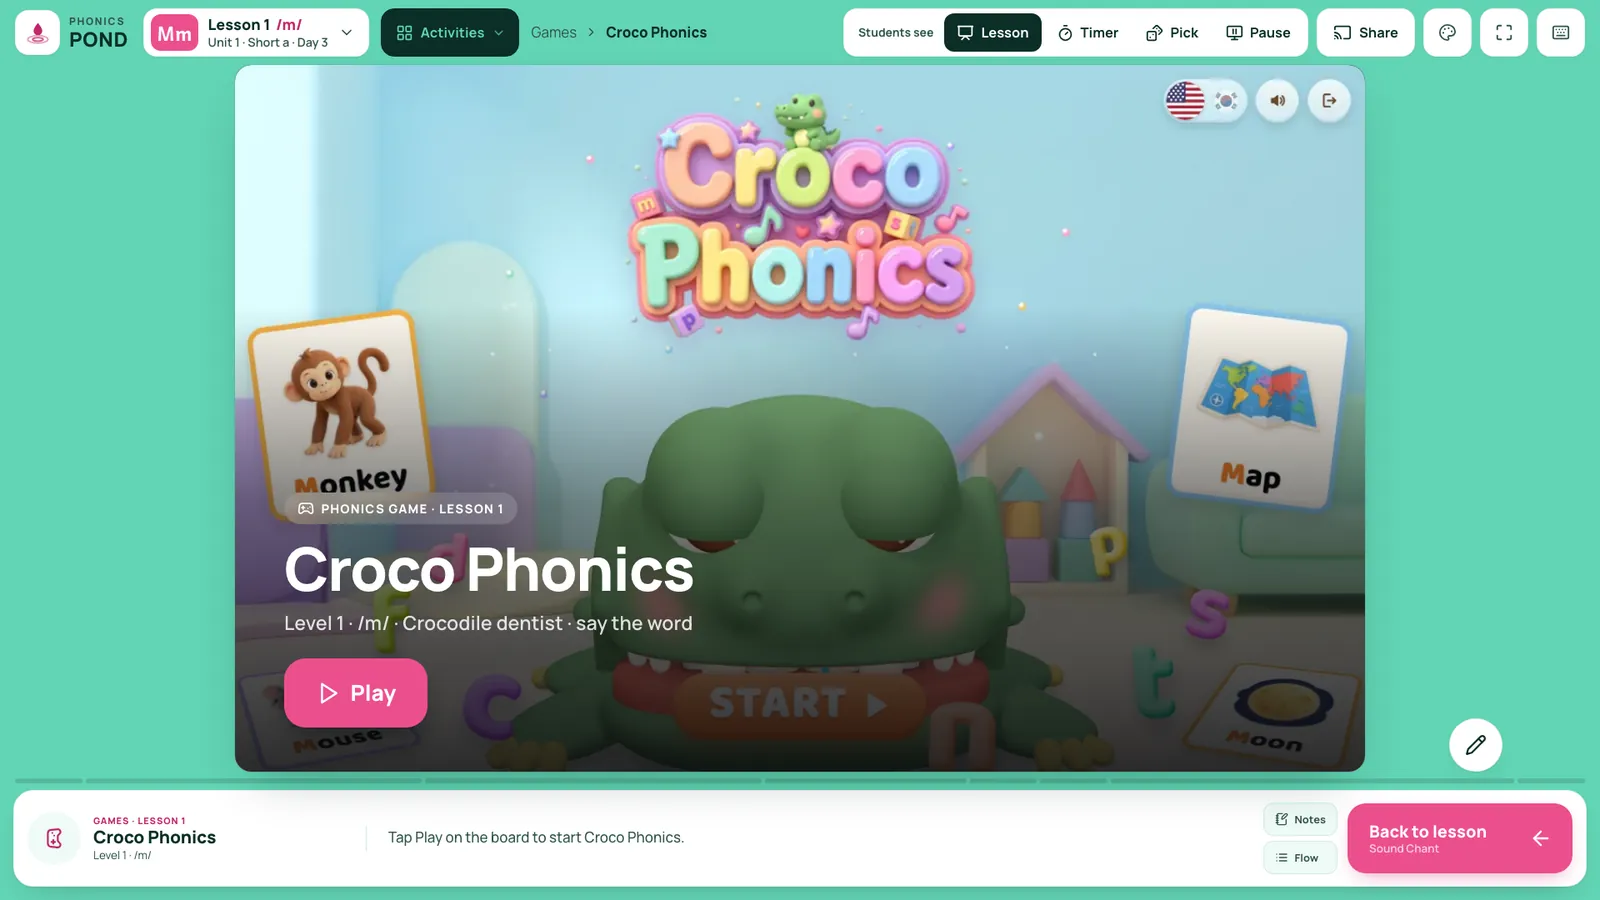
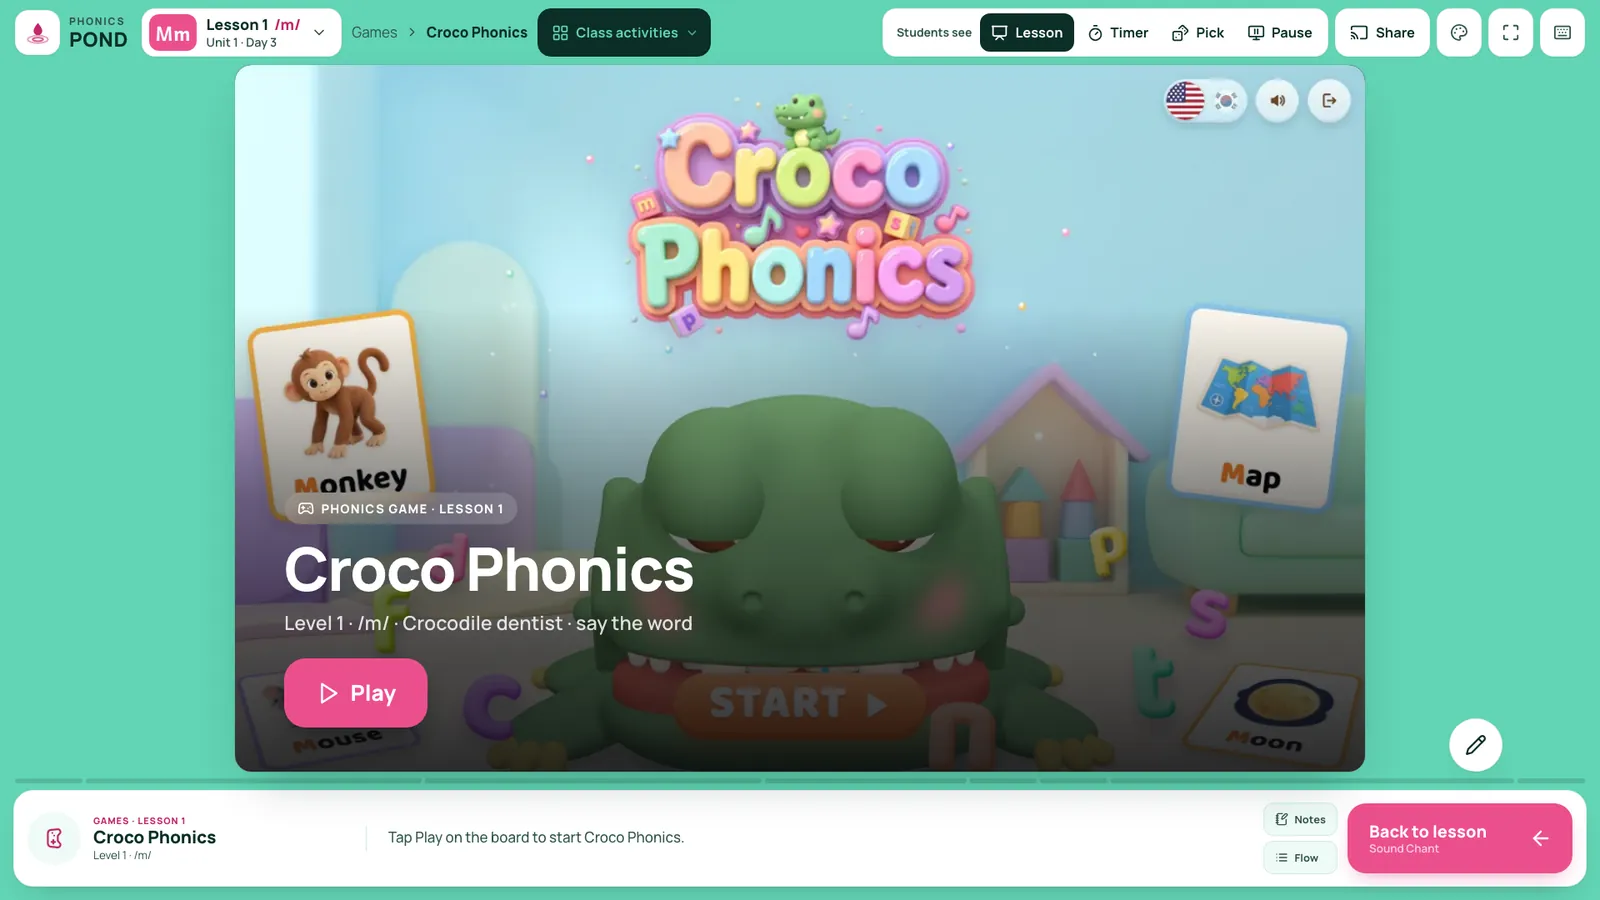
Top bar order: lesson path, then class activities (source 381c04b)

Changed region(s): [[0.5, 0.0, 1.0, 0.0622], [0.0938, 0.0, 0.4688, 0.0622]]

diff --git a/assets/css/concept-b.css b/assets/css/concept-b.css
@@ -30,7 +30,7 @@ button:disabled{cursor:default}
 :root[data-controls="right"][data-notes="panel"][data-npanel="shown"] .b-app{grid-template-columns:16px 360px 16px minmax(0,1fr) 16px 344px 16px;grid-template-areas:"top top top top top top top" ". notes . stage . dock ." ". . . . . . ."}
 
 /* ---------- top ---------- */
-.b-top{display:flex;align-items:center;gap:14px;padding:0 18px;min-width:0}
+.b-top{display:flex;align-items:center;gap:12px;padding:0 18px;min-width:0}
 .b-brand{display:flex;align-items:center;gap:11px;flex:none;height:56px;padding-right:4px;text-decoration:none;color:var(--tx)}
 .b-logo{display:grid;place-items:center;width:54px;height:54px;border-radius:16px;background:var(--d2);border:1px solid var(--d3);color:var(--acc-text)}
 .b-logo svg{width:31px;height:31px}
@@ -40,34 +40,37 @@ button:disabled{cursor:default}
 .b-lesson{display:flex;align-items:center;gap:12px;flex:none;height:58px;padding:0 16px 0 8px;border-radius:16px;border:1px solid var(--d3);background:var(--d2);text-align:left;color:var(--tx3);transition:border-color .15s,background .15s}
 .b-lesson:hover{border-color:var(--d4);background:var(--d3)}
 .b-lesson>.i{width:20px;height:20px;color:var(--tx2)}
-.b-acts{display:inline-flex;align-items:center;gap:9px;flex:none;height:58px;padding:0 15px 0 17px;border-radius:16px;border:1px solid var(--d3);background:var(--d2);color:var(--tx);font-size:16.5px;font-weight:700;white-space:nowrap;transition:border-color .15s,background .15s}
+.b-acts{display:inline-flex;align-items:center;gap:8px;flex:none;height:58px;padding:0 13px 0 16px;border-radius:16px;border:1px solid var(--d3);background:var(--d2);color:var(--tx);font-size:16.5px;font-weight:700;white-space:nowrap;transition:border-color .15s,background .15s}
 .b-acts:hover{border-color:var(--d4);background:var(--d3)}
 .b-acts .i{width:21px;height:21px}
 .b-acts .b-dd{width:17px;height:17px;color:var(--tx2)}
 .b-acts.is-on{background:var(--tx);border-color:var(--tx);color:var(--bg)}
 .b-acts.is-on .b-dd{color:var(--bg);opacity:.7}
 .b-lt{display:grid;place-items:center;min-width:44px;height:44px;padding:0 7px;border-radius:12px;background:var(--acc);color:var(--acc-ink);font:700 24px/1 var(--kid)}
+.b-lt.is-long{max-width:92px;padding:0 9px;font-size:15px;line-height:1.05;letter-spacing:-.01em;text-align:center;white-space:normal}
 .b-ltx{display:grid;gap:2px;line-height:1.2}
 .b-ltx b{font-size:18px;font-weight:800;color:var(--tx)}
 .b-ltx b i{font-style:normal;color:var(--acc-text);margin-left:3px}
+.b-ltx b i.is-long{font-size:14.5px;letter-spacing:-.02em;word-spacing:-.1em}
 .b-ltx small{font-size:14.5px;font-weight:600;color:var(--tx2)}
 .b-crumb{display:flex;align-items:center;gap:9px;min-width:0;font-size:17px;color:var(--tx2);white-space:nowrap;overflow:hidden}
 .b-crumb .i{width:17px;height:17px;color:var(--tx3)}
-.b-crumb b{color:var(--tx);font-weight:800;overflow:hidden;text-overflow:ellipsis}
+.b-crumb b{min-width:0;max-width:340px;color:var(--tx);font-weight:800;line-height:1.16;white-space:normal;overflow:hidden;display:-webkit-box;-webkit-line-clamp:2;-webkit-box-orient:vertical;text-wrap:balance}
+.b-crumb>button,.b-crumb>span,.b-crumb>.i{flex:none}
 .b-crumb span{color:var(--tx2)}
 .b-crumb button{display:inline-flex;align-items:center;gap:7px;height:44px;padding:0 13px 0 17px;border-radius:999px;font-size:16.5px;border:1px solid var(--d3);background:transparent;color:var(--tx2);font-weight:700}
 .b-crumb button:hover{background:var(--d2);color:var(--tx)}
 .b-crumb button .i{color:var(--tx3)}
-.b-utils{margin-left:auto;display:flex;align-items:center;gap:10px;flex:none}
-.b-ubtn{display:inline-flex;align-items:center;justify-content:center;gap:9px;height:58px;padding:0 19px;border-radius:16px;border:1px solid var(--d3);background:var(--d2);color:var(--tx);font-size:16.5px;font-weight:700;white-space:nowrap}
+.b-utils{margin-left:auto;display:flex;align-items:center;gap:8px;flex:none}
+.b-ubtn{display:inline-flex;align-items:center;justify-content:center;gap:9px;height:58px;padding:0 17px;border-radius:16px;border:1px solid var(--d3);background:var(--d2);color:var(--tx);font-size:16.5px;font-weight:700;white-space:nowrap}
 .b-ubtn .i{width:22px;height:22px}
 .b-ubtn:hover{background:var(--d3);color:var(--tx)}
-.b-ubtn--icon{width:58px;padding:0;color:var(--tx2)}
+.b-ubtn--icon{width:54px;padding:0;color:var(--tx2)}
 .b-share.is-live{border-color:var(--ok);color:var(--tx)}
 /* what students see: lesson · timer · pick · pause */
-.b-scenes{display:flex;align-items:center;gap:3px;height:58px;padding:5px;border-radius:16px;background:var(--d2);border:1px solid var(--d3)}
-.b-scnl{display:inline-flex;align-items:center;gap:8px;padding:0 10px 0 12px;font-size:14px;font-weight:700;color:var(--tx2);white-space:nowrap}
-.b-scenes button{display:inline-flex;align-items:center;gap:8px;height:46px;padding:0 15px;border-radius:12px;border:0;background:transparent;color:var(--tx);font-size:16.5px;font-weight:700;white-space:nowrap}
+.b-scenes{display:flex;align-items:center;gap:2px;height:58px;padding:5px;border-radius:16px;background:var(--d2);border:1px solid var(--d3)}
+.b-scnl{display:inline-flex;align-items:center;gap:8px;padding:0 8px 0 11px;font-size:14px;font-weight:700;color:var(--tx2);white-space:nowrap}
+.b-scenes button{display:inline-flex;align-items:center;gap:8px;height:46px;padding:0 13px;border-radius:12px;border:0;background:transparent;color:var(--tx);font-size:16.5px;font-weight:700;white-space:nowrap}
 .b-scenes button .i{width:21px;height:21px}
 .b-scenes button:hover{background:var(--d3);color:var(--tx)}
 .b-scenes button[aria-pressed="true"]{background:var(--tx);color:var(--bg)}
@@ -524,7 +527,17 @@ kbd{display:inline-grid;place-items:center;min-width:28px;height:26px;padding:0 
 @media (max-width:1840px){.b-scnl>span{display:none}.b-scnl{padding:0 4px}.b-scnl:empty{display:none}.b-crumb{font-size:16px}}
 @media (max-width:1760px){.b-wm{display:none}}
 @media (max-width:1680px){.b-scenes button{padding:0 13px}}
-@media (max-width:1640px){.b-acts span{display:none}.b-acts{padding:0 13px 0 15px}}
+@media (max-width:1720px){.b-acts span{display:none}.b-acts{padding:0 12px 0 15px}}
+/* fitTop(): long lesson/activity names drop the secondary labels first so the activity title is never cut */
+.b-top.is-tight .b-scnl>span{display:none}
+.b-top.is-tight .b-scnl{padding:0 4px}
+.b-top.is-tighter .b-acts span{display:none}
+.b-top.is-tighter .b-acts{padding:0 12px 0 15px}
+.b-top.is-tightest .b-ltx b i{display:none}
+.b-top.is-tight4 .b-ubtn span{display:none}
+.b-top.is-tight4 .b-ubtn:not(.b-ubtn--icon){width:58px;padding:0}
+.b-top.is-tight5 .b-scenes button span{display:none}
+.b-top.is-tight5 .b-scenes button{padding:0 13px}
 @media (max-width:1500px){.b-dockrow{grid-template-columns:minmax(250px,300px) minmax(0,1fr) auto}.b-say p{font-size:21px}.b-ubtn span,.b-scenes button span,.b-acts span,.b-wm{display:none}.b-next{min-width:220px}.b-scenes button{padding:0 11px}.b-chip{min-width:56px;padding:0 12px}}
 @media (max-width:1180px){.b-crumb{display:none}.b-toggles{display:none}.b-say,.b-tooltray{display:none}.b-dockrow{grid-template-columns:minmax(0,1fr) auto}}
 

diff --git a/assets/js/concept-b.js b/assets/js/concept-b.js
@@ -216,12 +216,13 @@
   function renderScenes() {
     const el = $('#scenes'); if (!el || !FP.lesson()) return;
     el.innerHTML = `<span class="b-scnl" title="${live ? 'Sharing to the classroom screen' : 'What students see'}">${live ? '<i class="b-live" aria-hidden="true"></i>' : ''}<span>Students see</span></span>${SCENES.map(([v, i, l, t]) => `<button type="button" data-b="scene" data-v="${v}" aria-pressed="${scene === v}" title="${t}">${ic(i)}<span>${l}</span></button>`).join('')}`;
+    fitTop();
   }
   function renderActs() {   // the lesson's class activities + games, next to the lesson button
     const b = $('#extrasBtn'); if (!b || !FP.lesson()) return;
     const on = FP.mode() === 'extra';
     b.classList.toggle('is-on', on); b.setAttribute('aria-pressed', on);
-    b.innerHTML = `${ic('grid')}<span>Activities</span>${ic('chevron-down', 'b-dd')}`;
+    b.innerHTML = `${ic('grid')}<span>Class activities</span>${ic('chevron-down', 'b-dd')}`;
   }
   function setScene(v) {
     if (v === 'pause' && scene === 'pause') v = resumeTo;
@@ -237,12 +238,37 @@
   /* ---------- top ---------- */
   function renderTop() {
     const L = FP.lesson();
-    $('#lessonBtn').innerHTML = `<span class="b-lt" lang="en">${esc(L.key)}</span><span class="b-ltx"><b>Lesson ${L.n} <i lang="en">${esc(L.snd)}</i></b><small>Unit ${L.unit} · ${esc(FP.unitTheme(L.unit))} · ${esc(L.day)}</small></span>${ic('chevron-down')}`;
+    $('#lessonBtn').innerHTML = `<span class="b-lt${L.key.length > 3 ? ' is-long' : ''}" lang="en">${esc(L.key)}</span><span class="b-ltx"><b>Lesson ${L.n} <i lang="en"${L.snd.length > 9 ? ' class="is-long"' : ''}>${esc(L.snd)}</i></b><small>Unit ${L.unit} · ${esc(L.day)}</small></span>${ic('chevron-down')}`;
+    $('#lessonBtn').title = `Lesson map (M) — Lesson ${L.n} ${L.snd} · Unit ${L.unit} · ${FP.unitTheme(L.unit)}`;
+    fitTop();
+  }
+  // The activity title must never be cut. When the bar runs short (long lesson names, narrow windows) secondary
+  // labels go first: "Students see" → the "Class activities" text → the lesson's sound line (still on the tile and
+  // in the tooltip) → the Share text → the screen-button texts (icons + tooltips stay). Decided once per lesson +
+  // window width from every section/title pair, so nothing jumps on Next.
+  const FIT = ['is-tight', 'is-tighter', 'is-tightest', 'is-tight4', 'is-tight5'];
+  let fitKey = '', fitLevel = 0, fitT = 0;
+  const crumbHTML = (sec, title) => `<button type="button" data-b="sections" title="Sections">${esc(sec)}${ic('chevron-down')}</button>${ic('chevron-right')}<b lang="en">${esc(title)}</b>`;
+  function fitTop(force) {
+    const top = $('.b-top'), crumb = $('#crumb'), L = FP.lesson(); if (!top || !crumb || !L) return;
+    const key = `${L.n}|${innerWidth}|${live ? 1 : 0}`;
+    if (key !== fitKey || force) {
+      fitKey = key; fitLevel = 0;
+      const keep = crumb.innerHTML, cut = () => { const b = crumb.querySelector('b'); return b.scrollHeight > b.clientHeight + 4; };
+      const intro = ['Lesson Words', 'Sound Chant', L.a1, 'Meaning First', 'Sound Awareness', 'Sound–Letter Match', 'Sound Review', 'Sound Blending', L.a2, 'G-Learning'];
+      for (const s of FP.sections()) for (const t of (s.built ? intro : s.subs.length ? s.subs : [s.name])) {
+        crumb.innerHTML = crumbHTML(s.name, t || '');
+        while (fitLevel < FIT.length) { FIT.forEach((c, i) => top.classList.toggle(c, i < fitLevel)); if (!cut()) break; fitLevel++; }
+      }
+      crumb.innerHTML = keep;
+    }
+    FIT.forEach((c, i) => top.classList.toggle(c, i < fitLevel));
   }
   function renderCrumb() {
     const c = FP.context(), sec = FP.section();
-    if (c.mode === 'extra') { $('#crumb').innerHTML = `<span>${esc((FP.extraInfo() || {}).group || 'Class activity')}</span>${ic('chevron-right')}<b>${esc(c.title)}</b>`; return; }
-    $('#crumb').innerHTML = `<button type="button" data-b="sections" title="Sections">${esc(sec.name)}${ic('chevron-down')}</button>${ic('chevron-right')}<b lang="en">${esc(FP.cur().title)}</b>`;
+    if (c.mode === 'extra') $('#crumb').innerHTML = `<span>${esc((FP.extraInfo() || {}).group || 'Class activity')}</span>${ic('chevron-right')}<b>${esc(c.title)}</b>`;
+    else $('#crumb').innerHTML = crumbHTML(sec.name, FP.cur().title);
+    fitTop();
   }
 
   /* ---------- floating board tools ---------- */
@@ -610,6 +636,8 @@
   addLayers(); refreshGames();
   renderScenes(); renderActs(); renderFab(); renderShareBtn(); renderDock(); renderGame();
   new ResizeObserver(() => placeFab()).observe($('#stagewrap'));
+  new ResizeObserver(() => { clearTimeout(fitT); fitT = setTimeout(fitTop, 60); }).observe($('.b-top'));
+  if (document.fonts) document.fonts.ready.then(() => fitTop(true));
   placeFab();
   if (qs.get('scene')) setScene(qs.get('scene'));   // QA / deep link: ?scene=timer|pick|pause
 })();

diff --git a/concept-b-stage.html b/concept-b-stage.html
@@ -12,8 +12,8 @@ r.dataset.theme=t;r.dataset.tone=t==='dark'?'dark':'bright';r.dataset.controls=c
 <link rel="preconnect" href="https://fonts.googleapis.com">
 <link rel="preconnect" href="https://fonts.gstatic.com" crossorigin>
 <link rel="stylesheet" href="https://fonts.googleapis.com/css2?family=Andika:wght@400;700&family=Manrope:wght@400;500;600;700;800&display=swap">
-<link rel="stylesheet" href="assets/css/fprk-shell.css?v=7b455a7">
-<link rel="stylesheet" href="assets/css/concept-b.css?v=7b455a7">
+<link rel="stylesheet" href="assets/css/fprk-shell.css?v=381c04b">
+<link rel="stylesheet" href="assets/css/concept-b.css?v=381c04b">
 </head>
 <body>
 <svg width="0" height="0" style="position:absolute" aria-hidden="true">
@@ -23,8 +23,8 @@ r.dataset.theme=t;r.dataset.tone=t==='dark'?'dark':'bright';r.dataset.controls=c
   <header class="b-top">
     <a class="b-brand" href="index.html" title="Phonics POND — all concepts"><span class="b-logo"><svg viewBox="0 0 32 32" aria-hidden="true"><use href="#pond-mark"/></svg></span><span class="b-wm"><small>Phonics</small><b>POND</b></span></a>
     <button type="button" class="b-lesson" id="lessonBtn" aria-haspopup="dialog" title="Lesson map (M)"></button>
-    <button type="button" class="b-acts" id="extrasBtn" popovertarget="extrasPop" title="Class activities and games for this lesson (A)"></button>
     <nav class="b-crumb" id="crumb" aria-label="Where you are"></nav>
+    <button type="button" class="b-acts" id="extrasBtn" popovertarget="extrasPop" title="Class activities and games for this lesson — outside the lesson flow (A)"></button>
     <div class="b-utils">
       <div class="b-scenes" id="scenes" role="group" aria-label="What students see"></div>
       <button type="button" class="b-ubtn b-share" id="shareBtn" popovertarget="sharePop" title="Share with students (S)"></button>
@@ -75,8 +75,8 @@ r.dataset.theme=t;r.dataset.tone=t==='dark'?'dark':'bright';r.dataset.controls=c
   </dl>
 </div>
 
-<script src="assets/js/fprk-data.js?v=7b455a7"></script>
-<script src="assets/js/fprk-core.js?v=7b455a7"></script>
-<script src="assets/js/concept-b.js?v=7b455a7"></script>
+<script src="assets/js/fprk-data.js?v=381c04b"></script>
+<script src="assets/js/fprk-core.js?v=381c04b"></script>
+<script src="assets/js/concept-b.js?v=381c04b"></script>
 </body>
 </html>

diff --git a/index.html b/index.html
@@ -175,7 +175,7 @@ dialog button{position:fixed;top:20px;right:24px;width:48px;height:48px;border-r
         <p class="desc">학생 화면은 학원 콘텐츠 규격인 <b>1280 × 800(16:10)</b>으로 고정하고, 대시보드에서는 양옆 여백을 두고 비율 그대로 보여 줍니다. 진행 버튼과 지금 할 말은 손이 닿는 독에 모았고, 컨트롤 위치 · 노트 방식 · 컬러는 강사가 고릅니다.</p>
         <ul class="points">
           <li><svg class="i"><use href="#check"/></svg><span>학생 화면 전환 <b>Lesson · Timer · Pick · Pause</b> — 타이머 <kbd>T</kbd> · 학생 뽑기 <kbd>P</kbd> · 주목 <kbd>B</kbd></span></li>
-          <li><svg class="i"><use href="#check"/></svg><span>레슨 옆 <b>Activities</b> — 그 레슨의 노래 · 율동 · 게임 바로가기</span></li>
+          <li><svg class="i"><use href="#check"/></svg><span>레슨 › 섹션 › 활동 다음 <b>Class activities</b> — 흐름 밖의 노래 · 율동 · 게임 바로가기</span></li>
           <li><svg class="i"><use href="#check"/></svg>판서 도구는 플로팅 펜 버튼 안에 — 누를 때만 펼침</li>
           <li><svg class="i"><use href="#check"/></svg><span><b>Share</b> 교실 화면(두 번째 화면 · 프로젝터) 실시간 미러링 — 노트 · 컨트롤은 안 보임</span></li>
           <li><svg class="i"><use href="#check"/></svg>레슨별 파닉스 게임 — Croco Phonics · Magic Block · Phonics Match · Phonics Island</li>

diff --git a/concept-c-script.html b/concept-c-script.html
@@ -8,8 +8,8 @@
 <link rel="preconnect" href="https://fonts.gstatic.com" crossorigin>
 <link rel="stylesheet" href="https://cdn.jsdelivr.net/gh/orioncactus/pretendard@v1.3.9/dist/web/variable/pretendardvariable-dynamic-subset.min.css">
 <link rel="stylesheet" href="https://fonts.googleapis.com/css2?family=Andika:wght@400;700&display=swap">
-<link rel="stylesheet" href="assets/css/fprk-shell.css?v=7b455a7">
-<link rel="stylesheet" href="assets/css/concept-c.css?v=7b455a7">
+<link rel="stylesheet" href="assets/css/fprk-shell.css?v=381c04b">
+<link rel="stylesheet" href="assets/css/concept-c.css?v=381c04b">
 </head>
 <body>
 <div class="c-app" id="app">
@@ -53,8 +53,8 @@
   </dl>
 </div>
 
-<script src="assets/js/fprk-data.js?v=7b455a7"></script>
-<script src="assets/js/fprk-core.js?v=7b455a7"></script>
-<script src="assets/js/concept-c.js?v=7b455a7"></script>
+<script src="assets/js/fprk-data.js?v=381c04b"></script>
+<script src="assets/js/fprk-core.js?v=381c04b"></script>
+<script src="assets/js/concept-c.js?v=381c04b"></script>
 </body>
 </html>

diff --git a/concept-a-guide.html b/concept-a-guide.html
@@ -7,8 +7,8 @@
 <link rel="preconnect" href="https://fonts.googleapis.com">
 <link rel="preconnect" href="https://fonts.gstatic.com" crossorigin>
 <link rel="stylesheet" href="https://fonts.googleapis.com/css2?family=Andika:wght@400;700&family=Figtree:wght@400;500;600;700;800&display=swap">
-<link rel="stylesheet" href="assets/css/fprk-shell.css?v=7b455a7">
-<link rel="stylesheet" href="assets/css/concept-a.css?v=7b455a7">
+<link rel="stylesheet" href="assets/css/fprk-shell.css?v=381c04b">
+<link rel="stylesheet" href="assets/css/concept-a.css?v=381c04b">
 </head>
 <body>
 <div class="a-app" id="app">
@@ -58,8 +58,8 @@
   </dl>
 </div>
 
-<script src="assets/js/fprk-data.js?v=7b455a7"></script>
-<script src="assets/js/fprk-core.js?v=7b455a7"></script>
-<script src="assets/js/concept-a.js?v=7b455a7"></script>
+<script src="assets/js/fprk-data.js?v=381c04b"></script>
+<script src="assets/js/fprk-core.js?v=381c04b"></script>
+<script src="assets/js/concept-a.js?v=381c04b"></script>
 </body>
 </html>

diff --git a/README.md b/README.md
@@ -3,4 +3,4 @@
 https://jinilee-hue.github.io/FPRK-Class-Dashboard/
 
 Public copy of the class-dashboard frame concepts A · B · C. Textbook page scans are not included.
-Built from the private working repo with `_dev/publish.py` (source 7b455a7).
+Built from the private working repo with `_dev/publish.py` (source 381c04b).
